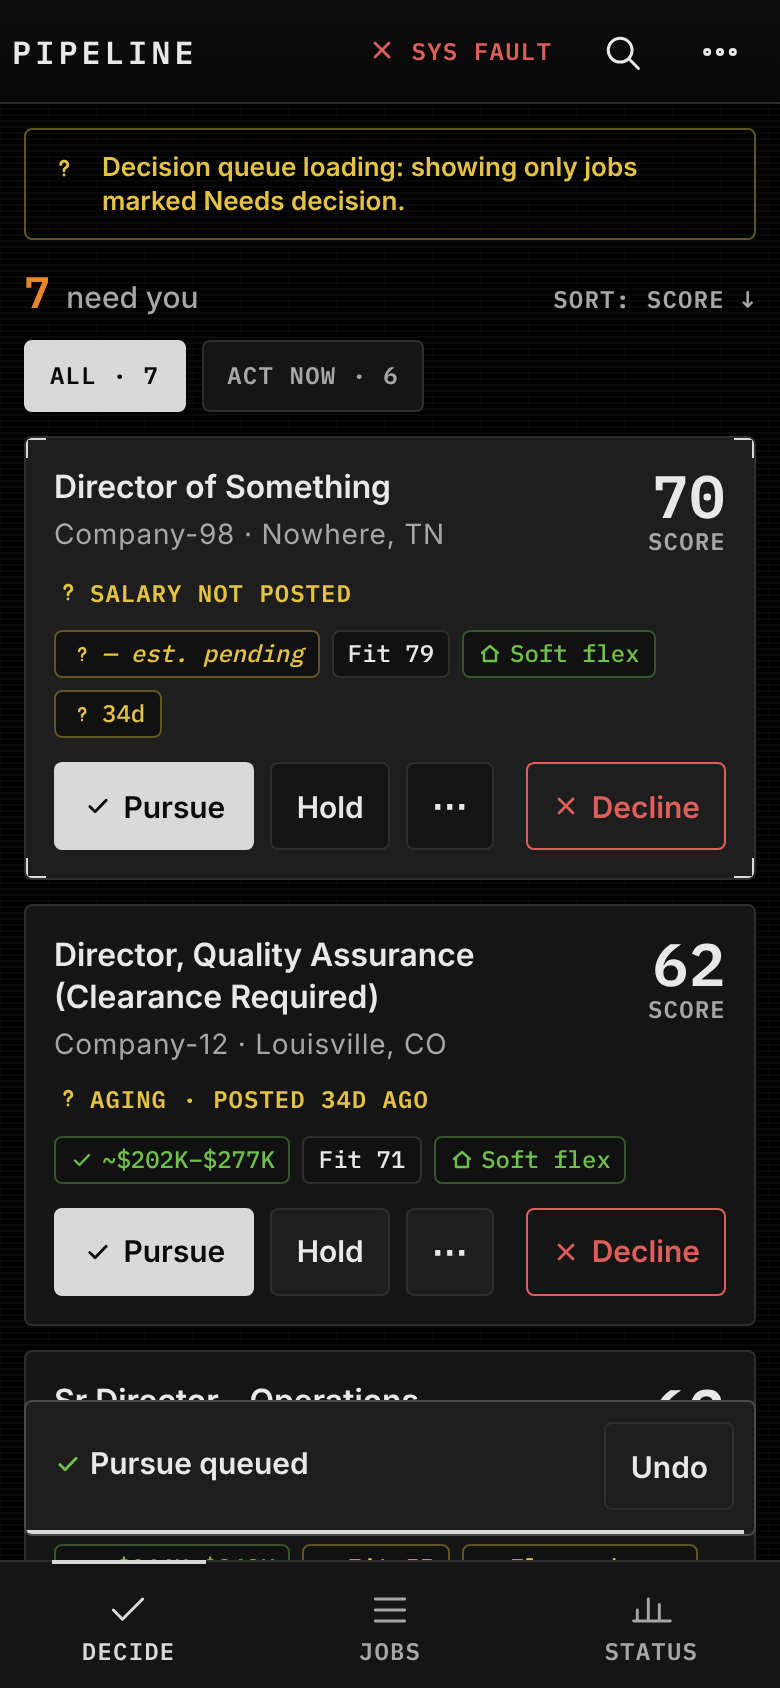
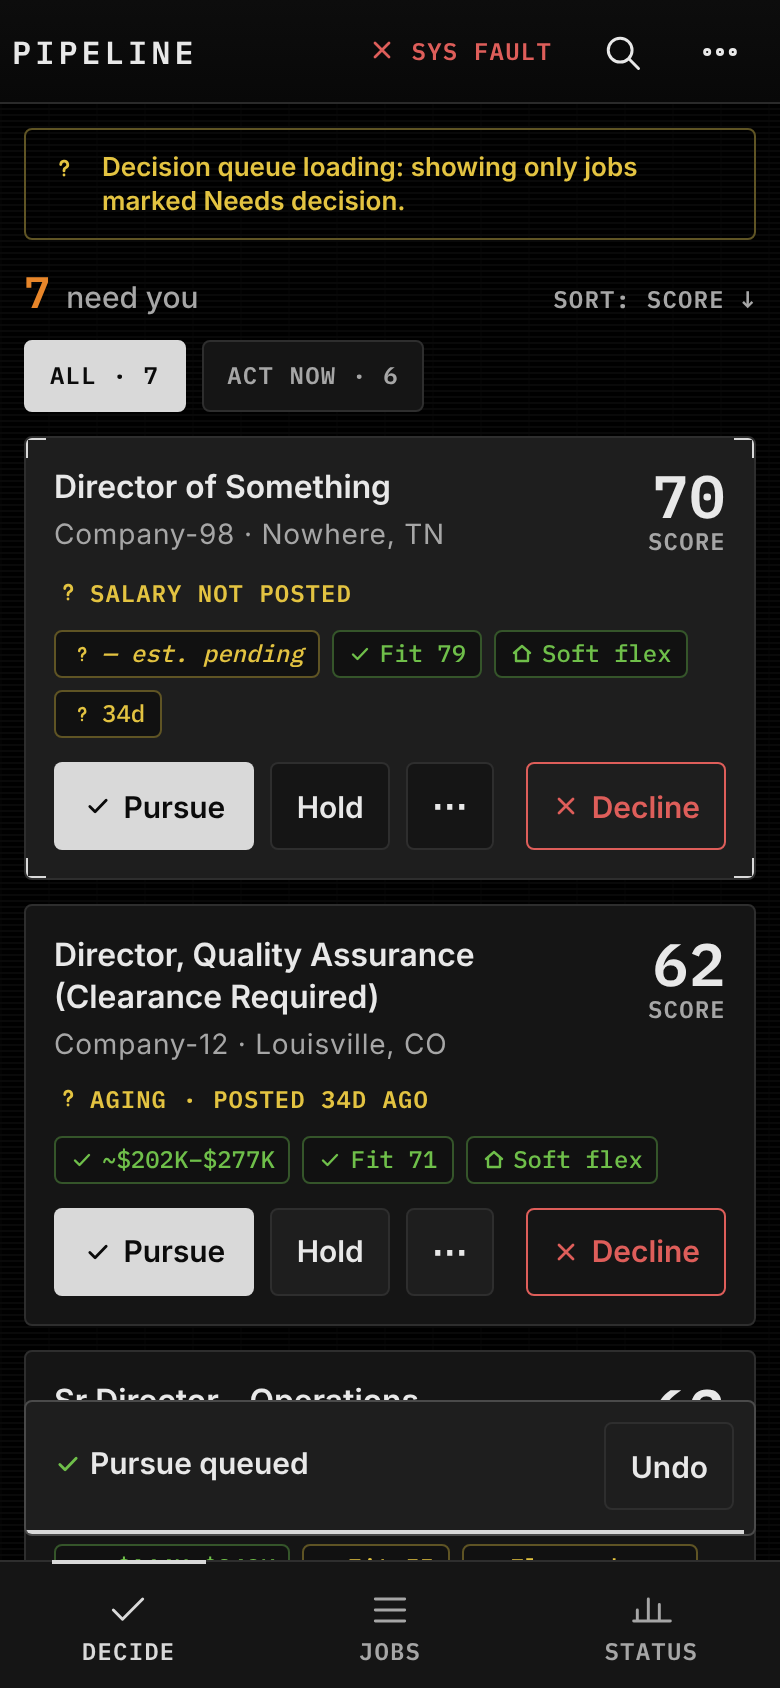
Claude MOBILE-STAGE5-REVIEW-20261102: screenshots after the Stage 5 review fixes
Retaken at foreman-cockpit 7135638: Retry fixed (failed and stale-failed views),
Act Now rules (Shield AI first, Memphis out), and green-check strong fits on
cards and in the landscape table. The pre-fix "Retrying…" screenshot is kept,
labelled. The README notes the fixes, the desktop comparison at d11b7de, and the
CI side-by-side browser run.

Claude-Session: https://claude.ai/code/session_01UMkZ78jYWNzDpJeLqYKAku

Changed region(s): [[0.4308, 0.3697, 0.8615, 0.4005], [0.4, 0.6777, 0.8308, 0.7085]]

diff --git a/receipts/mobile-redesign-20261102/README.md b/receipts/mobile-redesign-20261102/README.md
@@ -1,45 +1,56 @@
 # Mobile redesign screenshots: Stage 5 review (2026-11-02)
 
-For Grok Bot GUI and Tim. Branch `feat/mobile-pipeline-explorer` at `167543b`, PR tpruittguitar/foreman-cockpit#253 (draft).
+For Grok Bot GUI and Tim. Branch `feat/mobile-pipeline-explorer` at `7135638`, PR tpruittguitar/foreman-cockpit#253 (draft).
 Taken in a Claude Code cloud session on scrubbed test data (company names are placeholders), with a local test server and a
 local stand-in for the Writer. All traffic to the production Writer was blocked, and the block was checked before any run.
 
 Direct image links: `https://raw.githubusercontent.com/tpruittguitar/forge-coordination/main-ed62bb/receipts/mobile-redesign-20261102/<file>`
 
+## Changes since the first review set (all from the Stage 5 review)
+- **Retry fixed** (`7271ecd`). A retry in flight shows a disabled "Retrying…". When it settles the button is "Retry" again, and a
+  failed retry says, before the button: "Retry failed at h:mm AM ET (reason). Last successful load: h:mm AM ET" (or "never").
+  Test: `tests/mobile-queue-retry.browser.js`. It fails on the old code.
+- **Act now order fixed** (`22953d4`). The new Act Now rules test found that the phone re-sorted Act now by score, so Shield AI
+  came last. Act now now keeps the shared Act Now order (Shield AI first), and its header reads "Order: Act now".
+  Test: `tests/mobile-act-now.browser.js` (Shield AI first, Memphis out, a decided role out at once and after a reload).
+- **Fit glyph** (`7135638`). Fits of 70+ are green "✓ Fit 79" (table "✓ 79"), so every fit badge has a glyph.
+- All phone screenshots below were retaken at `7135638`.
+
 ## Why some banners show (test data, not live state)
-- **"✕ SYS FAULT"** in the phone header: the test serves no health or incident feed, so the system readout shows a fault.
-- **"? Decision queue loading: showing only jobs marked Needs decision."**: Stage 5's new queue state. The test serves no
-  `/api/pipeline-health`, so the decision-ready index never loads. Decide falls back to rows marked `TIM_DECISION_REQUIRED`
-  and says so. After 60 s, or on an error, it changes to "unavailable" with a Retry button. See the bug below.
+- **"✕ SYS FAULT"** in the phone header: the test serves no health or incident feed.
+- **"? Decision queue loading: showing only jobs marked Needs decision."**: the test serves no `/api/pipeline-health`, so the
+  decision-ready index never loads, and Decide says it is showing only `TIM_DECISION_REQUIRED` rows.
 
 ## Phone, 390×844 unless named
-| File | Stage | Shows |
-|---|---|---|
-| `stage2-decide-390x844.png`, `stage2-decide-375x667.png`, `stage2-decide-844x390.png` | 2 | Phone frame at three sizes |
-| `stage2-more-390x844.png`, `stage2-more-over-decide-390x844.png` | 2 | More sheet |
-| `stage3-decide-390x844.png` | 3 | Decide: **All · 8 / Act now · 7** (one test job, a Director role in Memphis, TN, is not Act Now) |
-| `stage3-decide-act-now-390x844.png` | 3 | Act now chip pressed after earlier decisions in the test: **All · 3 / Act now · 2**, Memphis card left out. A "Hold queued" toast from the previous step is still on screen |
-| `stage3-undo-toast-390x844.png` | 3 | "Pursue queued" with Undo |
-| `stage3-detail-390x844.png` | 3 | Full-screen job detail |
-| `stage3-no-writer-phone-390x844.png` | 3 | "⚠ NO WRITER" header and Decide banner |
-| `stage4-jobs-390x844.png`, `stage4-fields-390x844.png`, `stage4-jobs-landscape-844x390.png` | 4 | Jobs list, Fields sheet, landscape table |
-| `stage4-status-390x844.png` | 4 | Status (its "4 need decision" uses a different test data set than Decide; the test checks the two counts match on the same data) |
-| `stage5-retry-stuck-390x844.png` | 5 | **Bug:** after a failed Retry, the button stays disabled on "Retrying…" |
+| File | Shows |
+|---|---|
+| `stage5-retry-failed-390x844.png` | **Fixed:** "Decision queue unavailable", "Retry failed at … ET (Queue snapshot HTTP 503). Last successful load: never.", and an enabled Retry button |
+| `stage5-retry-stale-failed-390x844.png` | **Fixed:** older queue still shown; banner gives the failed retry, its reason, the last successful load time (ET), then Retry |
+| `stage5-retry-stuck-390x844.png` | *Before the fix* (`6225505`): the button stuck on "Retrying…" |
+| `stage5-act-now-rules-390x844.png` | Act now: Shield AI first (though not top score), no Memphis role, "Order: Act now" |
+| `stage3-decide-390x844.png` | Decide: All · 8 / Act now · 7; strong fit "✓ Fit 79" in green next to a yellow "~ Fit 67" |
+| `stage3-decide-act-now-390x844.png` | Act now chip pressed after earlier decisions in the test: All · 3 / Act now · 2, Memphis job left out |
+| `stage3-undo-toast-390x844.png` | "Pursue queued" with Undo |
+| `stage3-detail-390x844.png` | Full-screen job detail |
+| `stage3-no-writer-phone-390x844.png` | "⚠ NO WRITER" header and Decide banner |
+| `stage4-jobs-390x844.png`, `stage4-fields-390x844.png` | Jobs list and Fields sheet |
+| `stage4-jobs-landscape-844x390.png` | Landscape table: Fit cells "~ 67", "✓ 79", "✓ 71" |
+| `stage4-status-390x844.png` | Status (different test data set than Decide; the test checks the counts match on the same data) |
+| `stage2-*.png` | Phone frame at 390×844, 375×667, 844×390, and the More sheet |
 
 ## Desktop, 1440 wide
 | File | Shows |
 |---|---|
-| `stage3-no-writer-desktop-1440x900.png` | Header crop with no Writer connected: a single orange "WRITER ⚠ OFF" |
-| `branch-desktop-first-visit-header-1440x120.png` | The same state, from the comparison run |
+| `stage3-no-writer-desktop-1440x900.png`, `branch-desktop-first-visit-header-1440x120.png` | No Writer connected: a single orange "WRITER ⚠ OFF" |
 | `main-desktop-connected-1440x900.png` vs `branch-desktop-connected-1440x900.png` | Full page, connected: **0 differing pixels** |
-| `main-desktop-connected-header-1440x120.png` vs `branch-desktop-connected-header-1440x120.png` | Header crop, connected: **0 differing pixels** |
+| `main-desktop-connected-header-1440x120.png` vs `branch-desktop-connected-header-1440x120.png` | Header crop: **0 differing pixels** |
 
-The left menu panel covering "PIPELINE" and the start of the banner looks identical on `main`, so it's an existing issue,
-logged as tpruittguitar/foreman-cockpit#254. It doesn't block this branch.
+Retaken at `d11b7de`: still 0 differing pixels when connected. On first visit (no Writer saved), 437 pixels differ, all in the header
+strip at x 522–660, y 9–46. That is the approved Stage 3 "Writer ⚠ off" badge and the search field next to it, which is drawn
+slightly narrower. The left menu panel covering "PIPELINE" and the start of the banner is identical on `main`, so it's an existing
+issue, logged as tpruittguitar/foreman-cockpit#254. It doesn't block this branch.
 
-## Open items before merge
-1. **Rerun on Tim's desktop.** In the cloud container, 14 browser tests also fail on `main` (`derived-refresh`, `incidents`,
-   `map-popup`, `map`, `mobile`, `pay-worth`, `phone-columns`, `phone-drawer`, `phone-sheet`, `pr70`, `progress`,
-   `scoring-publish`, `three-col`, `ui`). That they fail only because of the container (Playwright 1.63 instead of the pinned
-   1.61.1, fonts, no map tiles) is **not confirmed**. They must pass on the desktop before merge.
-2. **Stage 5 Retry bug:** the fix isn't applied yet, pending Tim and Grok's Stage 5 review.
+## Browser suite: branch vs main
+Run by the `browser-tests-compare` GitHub Actions workflow on PR #253. It runs every browser test on the branch and on `main` in
+the same runner, with the Writer hosts blocked, and posts a side-by-side table in the run summary. Tests that fail on both
+are existing failures; a test that passes on `main` and fails on the branch is a regression.
